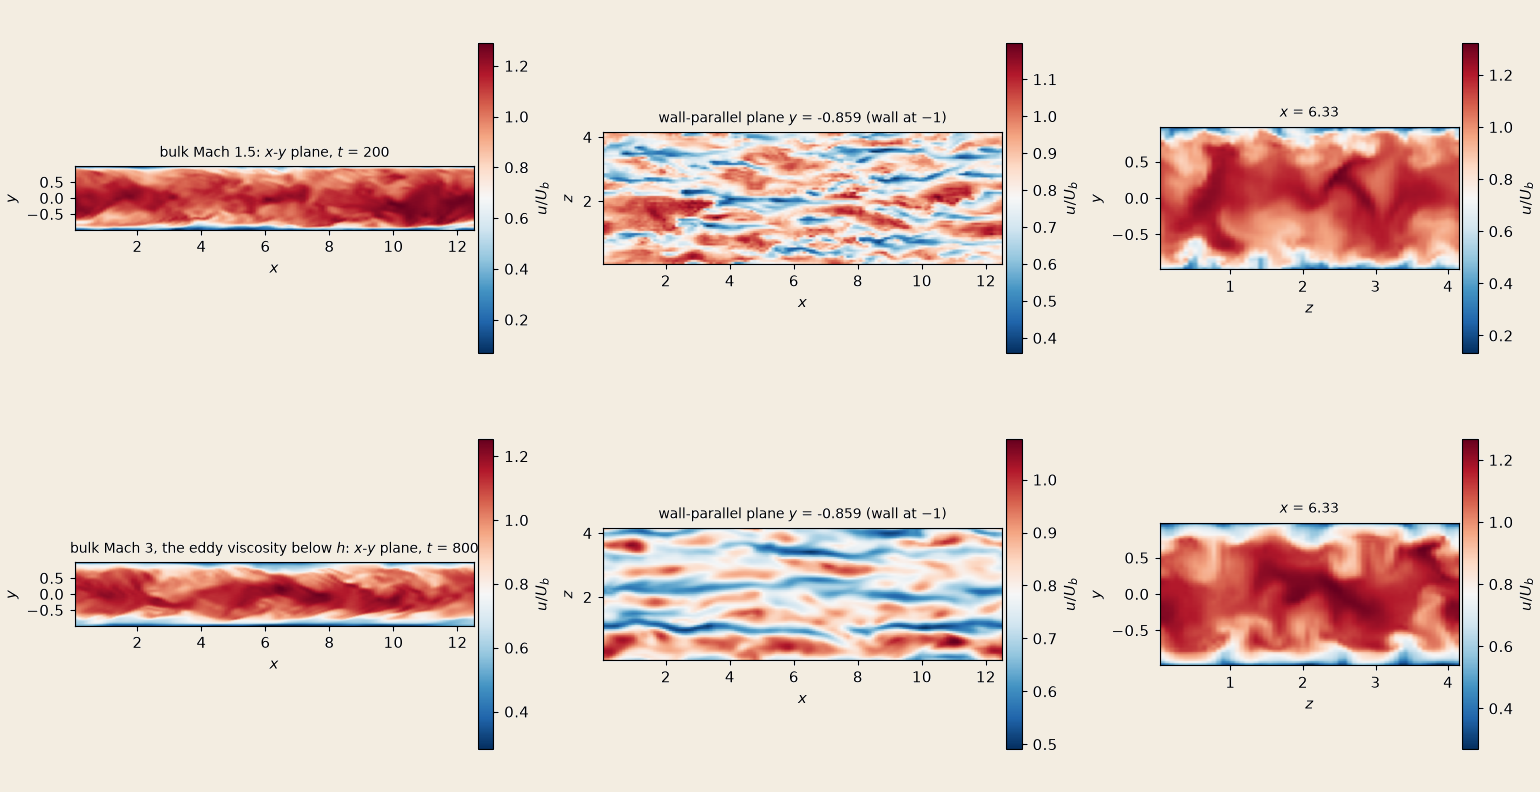
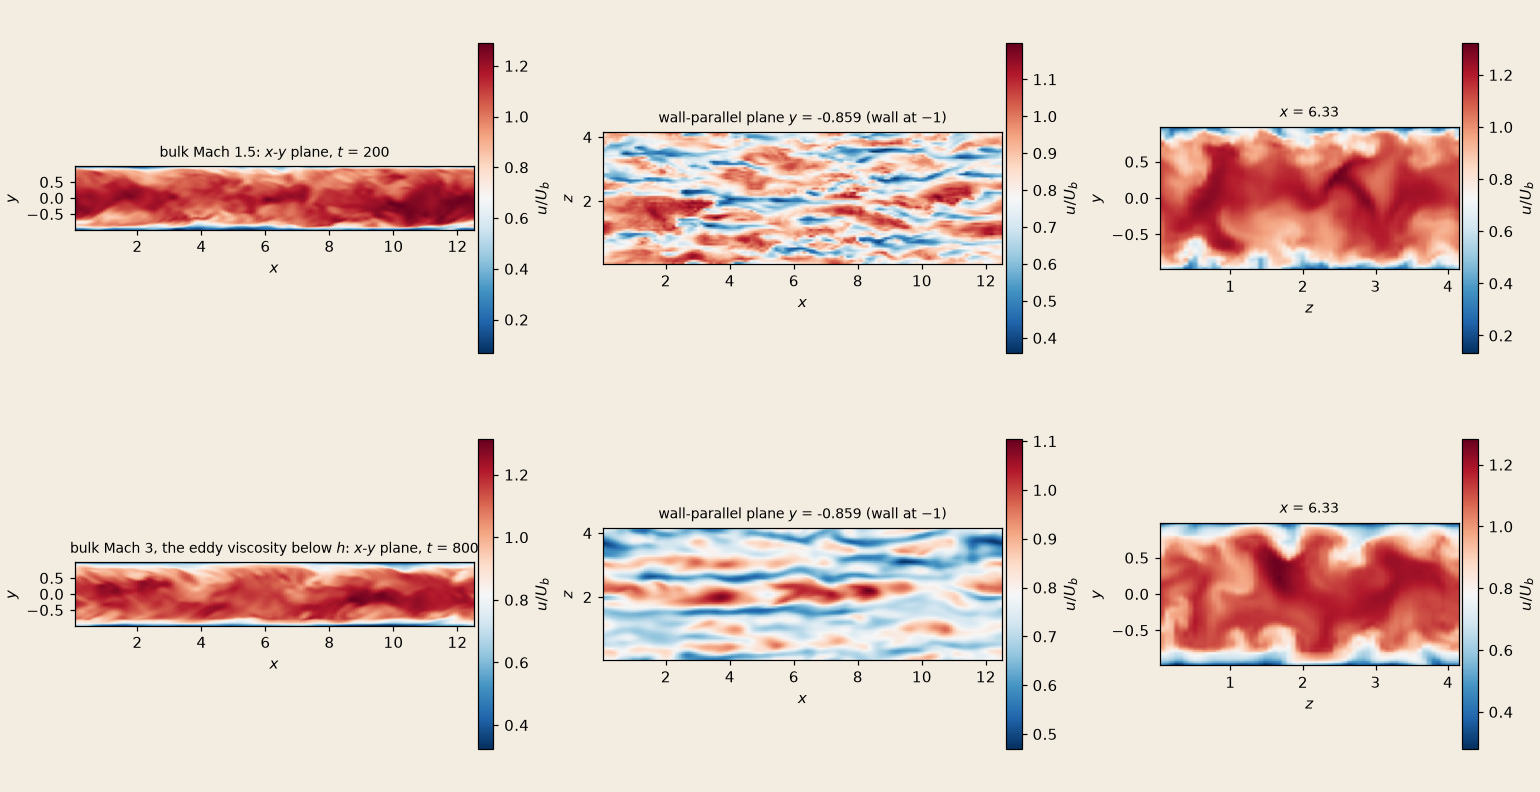
docs(flume): the Mach 3 channel with the eddy viscosity below h rerun to t = 800, its page and figures redrawn, the paper's Fig. 4 tooling (#144)
The t = 800 data of the channel campaign (i119-ev, c40585e8) no longer existed, so the paper's Fig. 4 could not be
redrawn. The three cases of channel_cases_t3_mach3_ev.txt and _ev800.txt were rerun from t = 0 to 800 on medooza,
4 A30 each (jobs 1369654 h15-sl-ev, 1369655 3rd-cell ev, 1369658 h15-ev; 1:38-2:09 h each), executable built from
develop 95ffd728 with no local Fortran change (job 1369653, flume-fnl-nvf, iac_nvf, LTO).

- turbulence/channel.md: the table rows recomputed (Re_tau over 600-700 / 700-800: semi-local h = 0.15 446, 444 (was
  445, 443); 3rd cell 517, 493 (was 519, 510); classical h = 0.15 545, 545 (was 548, 547)), a provenance line; the
  Result line and the findings follow the new numbers (first cell 1.5-1.9 T_w, walls within 4 %, dE/dt 12-87x smaller
  than at t = 200); the 1.69x cost of the key and the streak spacing are labelled as from the first run.
- the catalog: Re_tau 443-445 -> 444-446 in flume/index.md, verification/index.md, turbulence/index.md.
- channel-m3-ev and channel-fields redrawn (light and dark, same pixel sizes; the Mach 1.5 panels pixel-identical; the
  wall-parallel planes regenerated at the matching height y = -0.859: the old oracle copy was at y = 0.14).
- make_doc_figures.py: fig_paper_channel and its spec in paper_figures_144() (the paper's Fig. 4: three planes and
  Re_tau, T_1/T_w, Q_w/W against t, one colour bar, the legend off the data).
[…]

diff --git a/src/tests/flume/verification/make_doc_figures.py b/src/tests/flume/verification/make_doc_figures.py
@@ -5715,6 +5715,95 @@ def fig_paper_sbli(out: Path, runs: Path) -> None:
     plt.close(fig)
 
 
+def _channel_ev_series(work: Path, tw: float) -> tuple[np.ndarray, np.ndarray, np.ndarray, np.ndarray]:
+    """The three series of fig_channel_m3_ev for one run, computed as there: (t, Re_tau) from the driving force smoothed
+    over ~1/400 of the history with the wall density of each checkpoint interpolated in time; the checkpoints' (t,
+    rho_w, T_1/T_w); the 50-unit windows' (t, Q_w/W) of the total-energy budget."""
+    sys.path.insert(0, str(HERE / "turbulence"))
+    import channel_wall_cells as cw  # noqa: PLC0415
+
+    f, c = cw.history(work / "channel-forcing_history.dat"), cw.history(work / "channel-conservation_history.dat")
+    rows, ratio = [], 1.0
+    for t, tag in cw.checkpoints(work):
+        lay, _, _, _ = cw.layers(work, tag)
+        r1, _, _, t1 = lay[min(lay)]
+        rows.append((t, float((r1 * t1).mean()) / tw, float((r1 * t1).mean() / r1.mean()) / tw))
+        ratio = sum(float(u.sum()) for _, u, _, _ in lay.values()) / sum(float((r * u).sum()) for r, u, _, _ in lay.values())
+    a = np.array(rows)
+    w = max(1, len(f) // 400)
+    sm = np.convolve(f[:, 2], np.ones(w) / w, "valid")
+    ts = f[w // 2 : w // 2 + len(sm), 1]
+    re_tau = np.column_stack([ts[::w], 4880.0 * np.sqrt(sm[::w] * np.interp(ts[::w], a[:, 0], a[:, 1]))])
+    work_rate = np.interp(c[:, 1], f[:, 1], f[:, 2]) * c[:, 3] * ratio
+    win = []
+    for lo in range(0, int(c[-1, 1] + 1e-9), 50):
+        m = (c[:, 1] > lo) & (c[:, 1] <= lo + 50.0)
+        if m.sum() > 3:
+            wr = float(work_rate[m].mean())
+            win.append((lo + 25.0, (wr - np.polyfit(c[m, 1], c[m, 6], 1)[0]) / wr))
+    return re_tau, a, np.array(win), f
+
+
+def fig_paper_channel(out: Path, runs: Path) -> None:
+    """Paper figure (issue #144): the Mach 3 channel with the wall model's eddy viscosity below h, 128 x 64 x 64, to
+    t = 800 (the runs of fig_channel_m3_ev, the planes of fig_channel_fields, bottom row). (a-c) u/U_b at the last
+    checkpoint of the h = 0.15 semi-local run: the x-y plane at mid-span, the wall-parallel plane at the matching height
+    above the lower wall, the cross-flow plane, one colour scale; (d) Re_tau, (e) the first-cell T/T_w, (f) Q_w/W in
+    50-unit windows against t for the three settings, the DNS dashed in (d); the legend below the plots."""
+    root = runs / "channel"
+    s = _slices(root / "channel-m3-slices.npz")
+    x, y, z = s["x"], s["y"], s["z"]
+    ub = np.nanmean(s["avg_u"])
+    planes = ((s["xy_u"].T / ub, [x[0], x[-1], y[0], y[-1]], ("x", "y")),
+              (s["xz_u"].T / ub, [x[0], x[-1], z[0], z[-1]], ("x", "z")),
+              (s["yz_u"] / ub, [z[0], z[-1], y[0], y[-1]], ("z", "y")))
+    lo, hi = np.nanpercentile(np.concatenate([p[0].ravel() for p in planes]), [0.5, 99.5])
+    fig = plt.figure(figsize=_paper_size(4.5), layout="constrained")
+    gs = fig.add_gridspec(3, 4, width_ratios=[1.0, 1.0, 1.0, 0.035], height_ratios=[0.8, 1.15, 1.5])
+    for cell, (img, ext, (h, v)) in zip((gs[0, 0:3], gs[1, 0:2], gs[1, 2]), planes, strict=True):
+        ax = fig.add_subplot(cell)
+        im = ax.imshow(img, origin="lower", extent=ext, cmap="cividis", vmin=lo, vmax=hi, aspect="equal",
+                       interpolation="nearest")
+        ax.set_xlabel(f"${h}$")
+        ax.set_ylabel(f"${v}$")
+        if v == "y":
+            ax.set_yticks([-1.0, 0.0, 1.0])
+    fig.colorbar(im, cax=fig.add_subplot(gs[0:2, 3]), label=r"$u/U_b$")
+    tw = 1.0 / (1.4 * 9.0)
+    cases = (("m3-wm-g3-h15-sl-ev", "$h = 0.15$, semi-local", "o"), ("m3-wm-g3-ev", "3rd cell, classical", "s"),
+             ("m3-wm-g3-h15-ev", "$h = 0.15$, classical", "^"))
+    axd, axe, axf = fig.add_subplot(gs[2, 0]), fig.add_subplot(gs[2, 1]), fig.add_subplot(gs[2, 2])
+    notes = {}
+    for k, (name, label, marker) in enumerate(cases):
+        re_tau, a, win, f = _channel_ev_series(root / name, tw)
+        color = f"C{k}"
+        _paper_marked(axd, re_tau[:, 0], re_tau[:, 1], color, marker, label)
+        _paper_marked(axe, a[:, 0], a[:, 2], color, marker, "_" + label)
+        _paper_marked(axf, win[:, 0], win[:, 1], color, marker, "_" + label)
+        notes[name] = {"t_last": float(a[-1, 0]), "rho_w_last": float(a[-1, 1]), "t1_tw_last": float(a[-1, 2]),
+                       "qw_w_last_window": float(win[-1, 1]), "checkpoints": len(a)}
+    axd.axhline(451.0, color="k", ls="--", lw=0.8, label="DNS")
+    axe.axhline(1.0, color="k", lw=0.6)
+    axf.axhline(1.0, color="k", lw=0.6)
+    axd.set_ylabel(r"$Re_\tau$")
+    axe.set_ylabel(r"$T_1/T_w$")
+    axf.set_ylabel(r"$Q_w/W$")
+    for ax in (axd, axe, axf):
+        ax.set_xlabel("$t$")
+        ax.set_xlim(0.0, 800.0)
+        ax.xaxis.set_major_locator(mpl.ticker.MultipleLocator(200.0))
+        ax.grid(alpha=0.3)
+    fig.legend(*axd.get_legend_handles_labels(), loc="outside lower center", ncols=4, frameon=False, handlelength=1.8,
+               columnspacing=1.0, handletextpad=0.4)
+    fig.paper_notes = {"fields": {"case": "m3-wm-g3-h15-sl-ev", "time": round(float(s["time"]), 2),
+                                  "plane_xy_z": round(float(s["cut"][2]), 4), "plane_xz_y": round(float(s["cut"][1]), 4),
+                                  "plane_yz_x": round(float(s["cut"][0]), 4), "u_b": float(ub),
+                                  "range_0.5_99.5pc": [float(lo), float(hi)]},
+                       "runs": notes, "t_w": tw, "dns_re_tau": 451.0}
+    fig.savefig(out / "paper-channel.png")
+    plt.close(fig)
+
+
 def _tbl_compare(runs: Path, case: str, stat: Path) -> dict:
     """tbl_oracle.py compare of one boundary-layer run over 180 < t <= 360 (as fig_tbl_m2p5_res), as a dict."""
     import json  # noqa: PLC0415
@@ -5845,6 +5934,13 @@ def paper_figures() -> list:
     ]
 
 
+# the n3f rerun of the Mach 3 channel (issue #144, Fig. 4): the build and the three runs, 2026-11-24
+N3F_JOBS = ["1369653 (n3f-build: flume-fnl-nvf, plain iac_nvf; also the Mach 1.5 planes of channel-fields)",
+            "1369654 (n3f-h15sl, m3-wm-g3-h15-sl-ev, and its planes)", "1369655 (n3f-3rd, m3-wm-g3-ev)",
+            "1369658 (n3f-h15, m3-wm-g3-h15-ev)"]
+N3F_COMMIT = "95ffd728 (develop; the tree of the working copy at 2026-11-23 23:39, no local Fortran change)"
+
+
 def paper_figures_144() -> list:
     """The results figures of the paper regenerated in issue #144 (paper-only functions, fig_paper_*), with the
     provenance traced by hand: the run directories on medooza, their Slurm jobs, the commit that recorded the numbers the
@@ -5879,6 +5975,23 @@ def paper_figures_144() -> list:
                      "caption": "Mach 0.1; (a) omega_x at x ~ 0, t = 4.22; (b) omega_x at x ~ 0, t = 9.36; "
                                 "(c) omega_z at z ~ pi, t = 9.36; each map its own symmetric range (99.5th "
                                 "percentile); DNS 512^3 spectral (Wang et al. 2013)"}),
+        Spec("channel", fig_paper_channel, "paper-channel", "text", 4.5,
+             note="Mach 3 channel, eddy viscosity below h: u fields of the h = 0.15 semi-local run (a-c); Re_tau (d), "
+                  "first-cell T/T_w (e), Q_w/W (f) of the three settings",
+             traced={"runs": ["medooza:/ifs/hpc/home/szaghi/adam-tests/n3f/runs/m3-wm-g3-{h15-sl-ev,ev,h15-ev} "
+                              "(channel_cases_t3_mach3_ev.txt to t = 200, then channel_cases_t3_mach3_ev800.txt to "
+                              "t = 800, in one job each; rerun for #144, the runs of c40585e8 were not kept)",
+                              "medooza:/ifs/hpc/home/szaghi/adam-tests/n3f/channel-m3-slices.npz (field_slices.py "
+                              "--y -0.85, last checkpoint of m3-wm-g3-h15-sl-ev)"],
+                     "jobs": N3F_JOBS, "run_commit": N3F_COMMIT,
+                     "recorded_at": "the page turbulence/channel.md, rerun numbers (the first run was recorded at "
+                                    "c40585e8)",
+                     "toolchain": "nvfortran 26.9, CUDA 12.9, HPC-X Open MPI (flume-fnl-nvf, plain iac_nvf: device LTO)",
+                     "device": a30,
+                     "caption": "bulk Mach 3, Re 4880, 128 x 64 x 64; (a) x-y plane at mid-span, (b) wall-parallel "
+                                "plane at the matching height h = 0.15 above the lower wall, (c) cross-flow plane, one "
+                                "colour scale; (d) Re_tau with the wall density of each checkpoint, DNS 451 dashed; "
+                                "(e) first-cell Favre T/T_w; (f) Q_w/W in 50-unit windows"}),
         Spec("boundary-layer", fig_paper_tbl, "paper-tbl", "text", 3.55,
              note="Mach 2.5 boundary layer: u fields (a, b), C_f (c), u+_VD (d)",
              traced={"runs": ["medooza:/ifs/hpc/home/szaghi/adam-tests/i119-tauw/runs/m2p5-wm-l90 (delta_i/12)",

diff --git a/docs/applications/flume/verification/turbulence/channel.md b/docs/applications/flume/verification/turbulence/channel.md
@@ -94,8 +94,8 @@ Coleman, Kim & Moser's second case: bulk Mach 3, bulk Re 4880, $Re_\tau$ about 4
 the equilibrium model only.
 
 **Result.** With the wall model's eddy viscosity below $h$ (`wall_model_eddy_viscosity`) and run to a thermal steady
-state at $t=800$, $h=0.15$ with semi-local damping gives $Re_\tau = 443$–$445$ against about 451 for the DNS; the
-classical damping overshoots by 13–21 %. Without the key the first cell drains, as the runs to $t = 200$ show.
+state at $t=800$, $h=0.15$ with semi-local damping gives $Re_\tau = 444$–$446$ against about 451 for the DNS; the
+classical damping overshoots by 9–21 %. Without the key the first cell drains, as the runs to $t = 200$ show.
 
 ### Without a flux path below $h$, to $t = 200$
 
@@ -150,23 +150,28 @@ forcing work in 50-unit windows, 1 at a thermal steady state.*
 
 | Case | $\tau_w$, $600<t\le700$ | $700<t\le800$ | $\rho_w$ | $Re_\tau$ | $u_c$, $T_c/T_w$ | $T_1/T_w$ | $Q_w/W$ |
 |---|---|---|---|---|---|---|---|
-| equilibrium, $h=0.15$, semi-local | 3.52e-3 | 3.48e-3 | 2.36 | **445, 443** | 1.17, 2.44 | 1.79 | 0.99 |
-| equilibrium, 3rd cell | 4.51e-3 | 4.35e-3 | 2.51 | 519, 510 | 1.21, 2.65 | 1.57 | 0.99 |
-| equilibrium, $h=0.15$ | 5.17e-3 | 5.15e-3 | 2.44 | 548, 547 | 1.21, 2.53 | 1.84 | 1.00 |
+| equilibrium, $h=0.15$, semi-local | 3.53e-3 | 3.49e-3 | 2.37 | **446, 444** | 1.17, 2.44 | 1.80 | 0.99 |
+| equilibrium, 3rd cell | 4.48e-3 | 4.08e-3 | 2.50 | 517, 493 | 1.22, 2.65 | 1.55 | 0.99 |
+| equilibrium, $h=0.15$ | 5.14e-3 | 5.13e-3 | 2.43 | 545, 545 | 1.22, 2.53 | 1.82 | 1.00 |
+
+*Measured: ADAM `95ffd728`, FNL nvfortran 26.9 + CUDA 12.9 (`iac_nvf`, device LTO) on 4 A30 per run, 2026-11-24
+(`channel_campaign.sh` on `channel_cases_t3_mach3_ev.txt` then `channel_cases_t3_mach3_ev800.txt` in one job per run:
+jobs 1369654, 1369655, 1369658; build 1369653). The runs first recorded at `c40585e8` were not kept; this rerun replaces
+their numbers (#144), and the figure above is drawn from it.*
 
 **What it shows.**
-- **The drain is gone.** The first cell is $1.6$–$1.8\,T_w$ at every time after the transient, the two walls agree within
-  2 %, and the two first-cell layers hold 4–5 % of the mass (3.1 % if uniform), against 16 % at $0.41\,T_w$ without the
-  key.
-- **The runs are thermally steady at $t=800$**: $Q_w/W$ is 0.99–1.00 and $dE/dt$ about 60 times smaller than at $t=200$.
-- **$h=0.15$ with semi-local damping matches the DNS within 2 %.** With the classical damping $Re_\tau$ is 13 % (3rd
+- **The drain is gone.** The first cell is $1.5$–$1.9\,T_w$ at every time after the transient ($t>100$), the two walls
+  agree within 4 %, and the two first-cell layers hold 4–5 % of the mass (3.1 % if uniform), against 16 % at
+  $0.41\,T_w$ without the key.
+- **The runs are thermally steady at $t=800$**: $Q_w/W$ is 0.99–1.00 and $dE/dt$ 12 to 87 times smaller than at $t=200$.
+- **$h=0.15$ with semi-local damping matches the DNS within 2 %.** With the classical damping $Re_\tau$ is 9–15 % (3rd
   cell) and 21 % ($h=0.15$) above.
 - **$Re_\tau$ needs the thermal steady state at this Mach number.** The bulk heats until $t\approx600$, $\rho_w$ rises
-  from about 2.1 to 2.4–2.5, and $Re_\tau$ rises with it: at $t=200$ the 3rd-cell run gave 438, 448, which looked like a
+  from about 2.1 to 2.4–2.5, and $Re_\tau$ rises with it: at $t=200$ the 3rd-cell run gave 460, 451, which looked like a
   match.
-- **Cost.** From the same $t=800$ state of the semi-local run to $t=810$ (4 A30), the key on takes 1.69 times the wall
-  time of the key off: 1.28 times the steps (the eddy viscosity enters the viscous time-step limit) and 1.32 times the
-  time per step.
+- **Cost** (measured on the first run, not repeated). From the same $t=800$ state of the semi-local run to $t=810$
+  (4 A30), the key on takes 1.69 times the wall time of the key off: 1.28 times the steps (the eddy viscosity enters the
+  viscous time-step limit) and 1.32 times the time per step.
 
 ## The flow
 
@@ -178,7 +183,8 @@ $128\times64\times64$, $h=0.15$ with semi-local damping, $t=200$. Bottom: bulk M
 $t=800$. Planes from `turbulence/field_slices.py`; the figure is `make_doc_figures.py --only channel-fields`.*
 
 - **At the matching height the flow is in streaks** along $x$, but outer-scaled ones. At Mach 3 the first minimum of the
-  spanwise correlation of $u$ in that plane puts them $1.05\,h$ apart, about 470 wall units at $Re_\tau\approx445$,
+  spanwise correlation of $u$ in that plane (measured on the planes of the first run, `c40585e8`, not re-measured on the
+  rerun shown) puts them $1.05\,h$ apart, about 470 wall units at $Re_\tau\approx445$,
   against the 100 of the near-wall cycle; at Mach 1.5 the correlation has no clear minimum within the span. The
   near-wall cycle lives below the matching height ($y^+\approx33$ at Mach 1.5), in the wall model, and the grid
   ($\Delta z^+\approx14$, $\Delta x^+\approx22$ at Mach 1.5) does not form it above.

diff --git a/docs/applications/flume/verification/turbulence/index.md b/docs/applications/flume/verification/turbulence/index.md
@@ -13,7 +13,7 @@ physics (P) is the comparison against DNS. All legs are in `src/tests/flume/veri
 | [The ILES baseline](./iles-baseline) | P+C | what the scheme alone does to the Taylor-Green vortex (Re 1600, M 0.1, against the 512³ DNS; $M_0 = 1.25$), on a static 2:1 box and on decaying compressible isotropic turbulence: numerical dissipation dominates, 77 % and 58 % of the energy lost up to the dissipation peak at $64^3$ and $128^3$ with WENO-5 at M 0.1 |
 | [Subgrid-scale models](./sgs-models) | P+C | the algebraic models (Vreman, WALE, Sigma) on WENO-5: no model beats no model, each lowers the enstrophy peak further from the DNS |
 | [The hybrid central/WENO scheme](./hybrid-scheme) | P+C | a Ducros-type sensor, a 6th-order kinetic-energy-preserving central flux, one flux per face, the skin at 2:1 seams and physical faces, pressure equilibrium: at $128^3$ closer to the DNS than WENO-5 at $256^3$ on every L2 error; a model makes it worse |
-| [Plane channel and the wall model](./channel) | P+C | mass-flow forcing, isothermal and `wall-modelled` walls, the equilibrium wall model with semi-local damping, against the Coleman channel: with $h = 0.15$, $Re_\tau$ 219–222 at Mach 1.5 (DNS 220–222) and 443–445 at Mach 3 (DNS 451, with the eddy viscosity below $h$) |
+| [Plane channel and the wall model](./channel) | P+C | mass-flow forcing, isothermal and `wall-modelled` walls, the equilibrium wall model with semi-local damping, against the Coleman channel: with $h = 0.15$, $Re_\tau$ 219–222 at Mach 1.5 (DNS 220–222) and 444–446 at Mach 3 (DNS 451, with the eddy viscosity below $h$) |
 | [Compressible boundary layer](./boundary-layer) | P+C | a digital-filter inflow at Mach 2.5 and 5.86 against the DNS: $C_f$ 0.2 % below at Mach 2.5 ($\delta_i/16$), 3.8 % below at Mach 5.86 with $B_q$ as the DNS; $H$ the DNS's against the edge state |
 
 Each page lists what it leaves open under "Not done".

diff --git a/docs/applications/flume/verification/index.md b/docs/applications/flume/verification/index.md
@@ -244,7 +244,7 @@ What the scheme does to turbulence, then the closures: subgrid-scale models, a h
 
 [![The hybrid central/WENO scheme](/flume/tgv-hybrid.png)<strong>The hybrid central/WENO scheme</strong><span>the central/WENO hybrid at $128^3$ closer to the DNS than WENO-5 at $256^3$ on every L2 error; a subgrid model makes it worse</span><em>physics + contract</em>](./turbulence/hybrid-scheme)
 
-[![Plane channel and the wall model](/flume/channel-wm.png)<strong>Plane channel and the wall model</strong><span>the equilibrium wall model in a compressible channel: $Re_\tau$ 219–222 at Mach 1.5 (DNS 220–222) and 443–445 at Mach 3 (DNS 451)</span><em>physics + contract</em>](./turbulence/channel)
+[![Plane channel and the wall model](/flume/channel-wm.png)<strong>Plane channel and the wall model</strong><span>the equilibrium wall model in a compressible channel: $Re_\tau$ 219–222 at Mach 1.5 (DNS 220–222) and 444–446 at Mach 3 (DNS 451)</span><em>physics + contract</em>](./turbulence/channel)
 
 [![Compressible boundary layer](/flume/tbl-m2p5.png)<strong>Compressible boundary layer</strong><span>Mach 2.5 and 5.86 layers from a digital-filter inflow: $C_f$ 0.2 % below the DNS at $\delta_i/16$, 3.8 % below at Mach 5.86 with $B_q$ as the DNS</span><em>physics + contract</em>](./turbulence/boundary-layer)
 

diff --git a/docs/applications/flume/index.md b/docs/applications/flume/index.md
@@ -105,7 +105,7 @@ shock tube against its exact solution; the [tutorial](/tutorials/flume/sod) cont
 
 [![Vorticity of the Taylor-Green vortex and of isotropic turbulence](/flume/tgv-fields.png)<strong>Taylor–Green and isotropic turbulence</strong><span>vorticity, hybrid-kep-weno at 128³</span>](./verification/turbulence/hybrid-scheme)
 
-[![Streamwise velocity in two wall-modelled channels](/flume/channel-fields.png)<strong>Wall-modelled channel</strong><span>Mach 1.5 and 3: Re_τ 219–222 and 443–445, DNS 220–222 and 451</span>](./verification/turbulence/channel)
+[![Streamwise velocity in two wall-modelled channels](/flume/channel-fields.png)<strong>Wall-modelled channel</strong><span>Mach 1.5 and 3: Re_τ 219–222 and 444–446, DNS 220–222 and 451</span>](./verification/turbulence/channel)
 
 [![Balsara-Spicer blast with the positivity limiter](/flume/blast.png)<strong>Balsara–Spicer blast</strong><span>β = 2.5·10⁻⁴ with the positivity limiter, both space schemes</span>](./verification/mhd/positivity-limiter)
 
